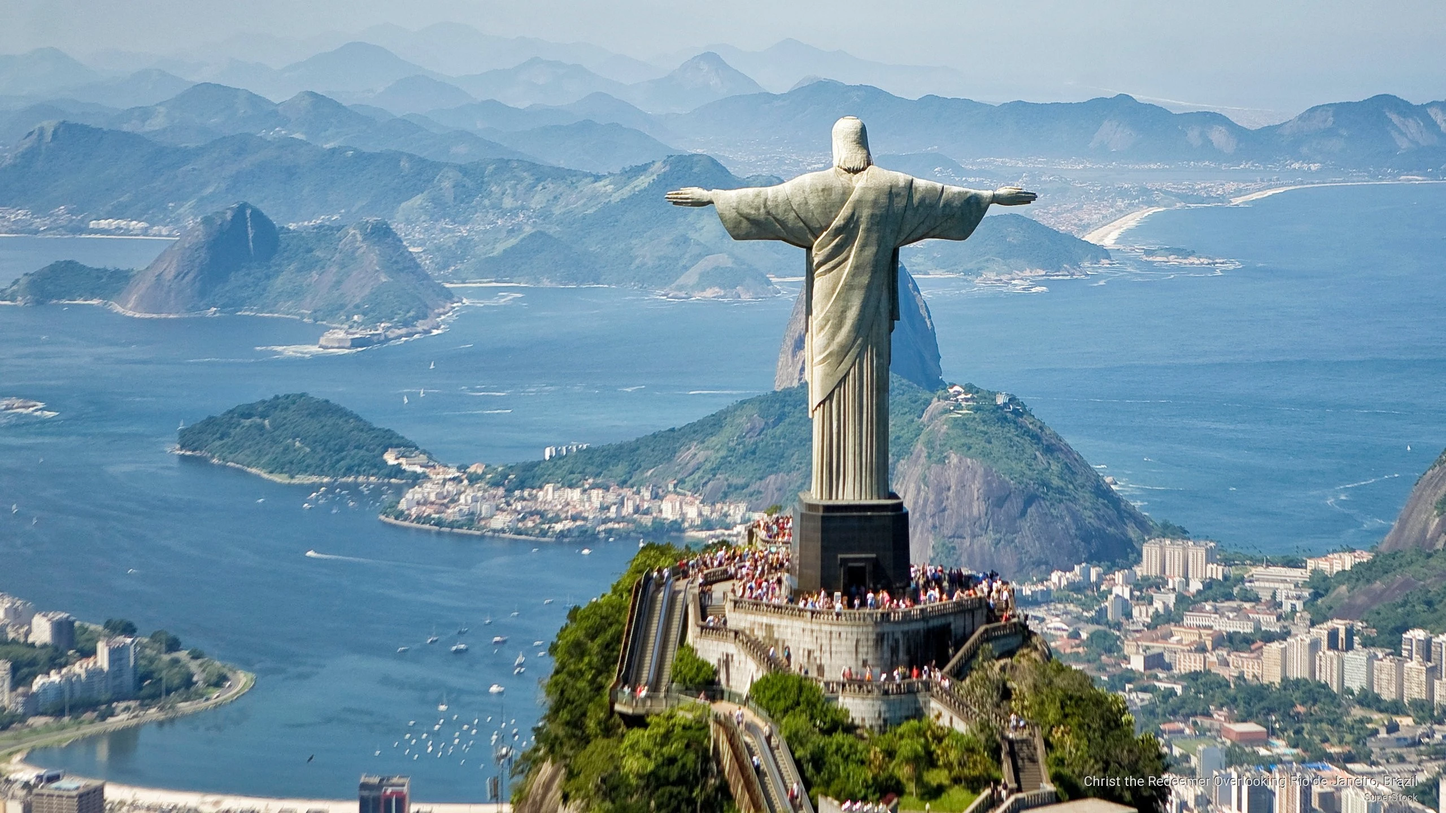
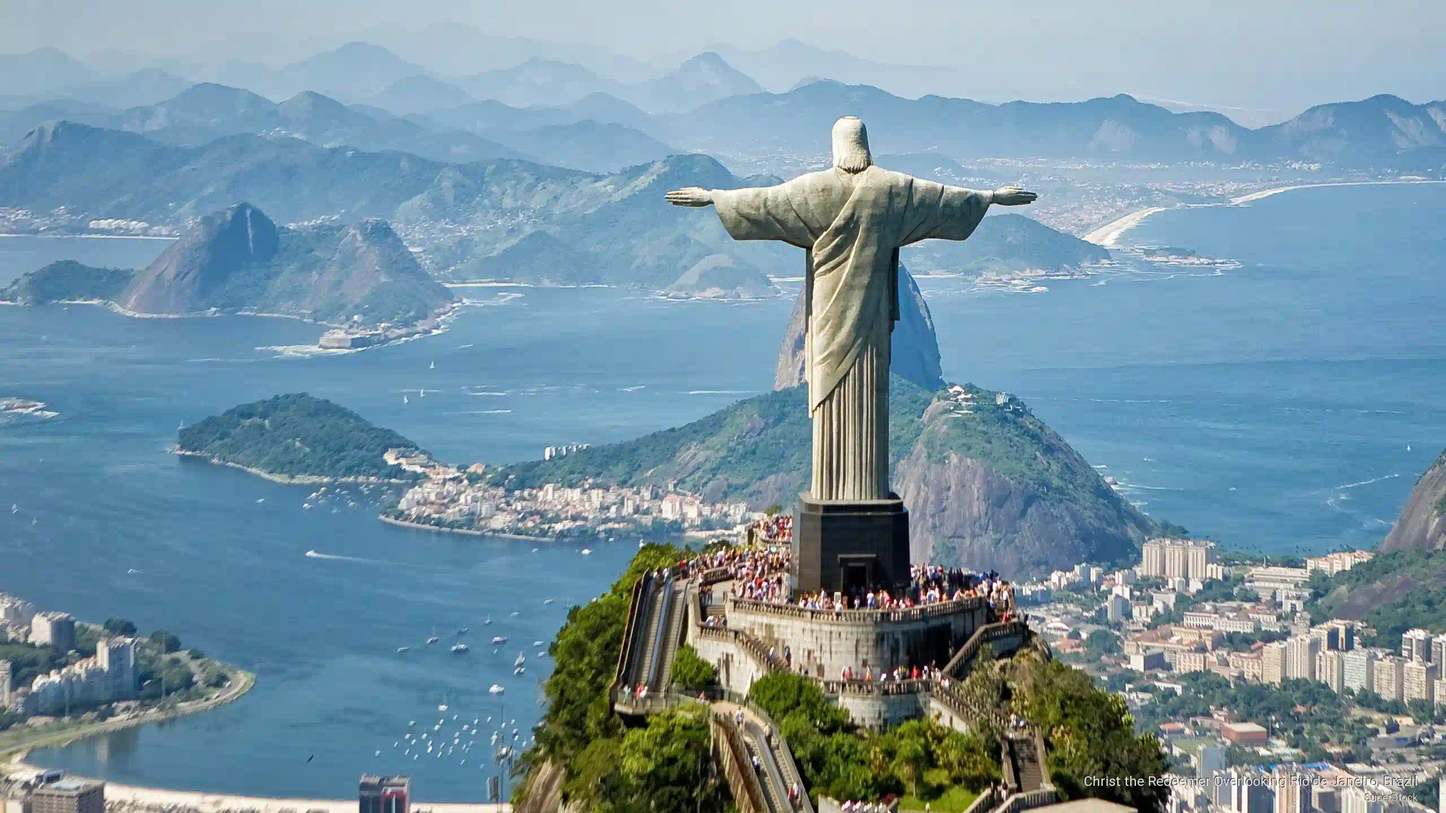
optmized image

diff --git a/place.html b/place.html
@@ -24,17 +24,8 @@
  
         <section class="hero">
             <picture>
-                <source
-                    media="(min-width: 768px)"
-                    srcset="images/brazil-large.webp"
-                >
                 <img
-                    srcset="images/images/brazil-large.webp"
-                    size="(max-width: 768px) 100vw, 100vw"
-                    alt="Aerial view of Rio de Janeiro with Christ the Redeemer and Sugarloaf Mountain"
-                    loading="eager"
-                    width="1200"
-                    height="600"
+                    srcset="images/brazil-large.webp"
                 >
             </picture>
         </section>
@@ -82,6 +73,13 @@
                     Weather
                     <span class="weather-emoji">⛅</span>
                 </h2>
+                    <img
+                        class="weather-svg"
+                        src="images/partly-cloudy.svg"
+                        alt="Partly cloudy"
+                        width="36"
+                        height="36"
+                    >
                 <table>
                     <tr>
                         <th>Temperature:</th>

diff --git a/styles/place.css b/styles/place.css
@@ -51,7 +51,7 @@ header h1 {
     font-family: var(--font-heading);
     font-size: 2.4rem;
     font-weight: bold;
-    color: var(--color-white);
+    color: var(--color-yellow);
     letter-spacing: 2px;
 }
 
